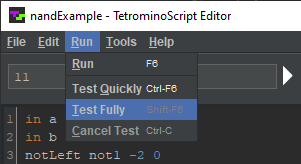
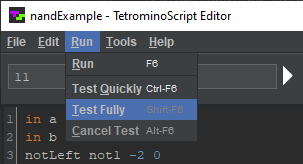
tse

diff --git a/web/index.html b/web/index.html
@@ -4215,7 +4215,7 @@ N = 16 * tetrominoType + 4 * tetrominoRotation + blockIndex;  // offset within p
 
 <p><img id="tse-test-fully.png" class="centered" src="tse-test-fully.png" /></p>
 
-<p>That causes TSE to compare the NAND gate's output with the value from JavaScript snippet for all possible inputs. They match:</p>
+<p>That causes TSE to compare the <span class="nowrap">NAND gate's</span> output with the value from JavaScript snippet for all possible inputs. They match:</p>
 
 <p><img id="tse-test-passed.png" class="centered" src="tse-test-passed.png" /></p>
 
@@ -4235,7 +4235,7 @@ N = 16 * tetrominoType + 4 * tetrominoRotation + blockIndex;  // offset within p
 
 <p>The alternative, <span class="menu">Run > Test Quickly</span> or <span class="keys">Ctrl-F6</span>, compares the circuit’s output with the JavaScript for a randomly selected subset of the possible input values. It covers only 10% of the testing space, enabling it to finish 10&times; faster.</p>
 
-<p>To terminate a long-running test, select <span class="menu">Run > Cancel Test</span></p>
+<p>To terminate a long-running test, select <span class="menu">Run > Cancel Test</span> or press <span class="keys">Alt-F6</span>.</p>
 
 <p>TSE recursively renders a circuit to a specified cutoff depth. At the cutoff, it assigns output nodes by evaluating JavaScript snippets. Meaning, not only does it display less detail, it simulates less detail. Consequentially, the lower the depth, the faster the render.</p>
 
@@ -4355,16 +4355,18 @@ N = 16 * tetrominoType + 4 * tetrominoRotation + blockIndex;  // offset within p
 
 <h3 id="tse-other-features">Other Features</h3>
 
-<p>TSE generated the <a href="https://en.wikipedia.org/wiki/SVG" target="_blank">SVG</a> diagrams in this text. To access the <span class="nowrap">Export SVG</span> dialog shown below, select <span class="menu">File > Export SVG...</span></p>
+<p>The <span class="nowrap">Export SVG</span> dialog, shown below, created the <a href="https://en.wikipedia.org/wiki/SVG" target="_blank">SVG</a> diagrams for this text. Select <span class="menu">File > Export SVG...</span> to open it.</span></p>
 
 <p><img id="tse-export-svg.png" class="centered" src="tse-export-svg.png" /></p>
+
+<p>Here are descriptions of its elements:</p>
 
 <ul>
   <li><span class="menu">Output</span>
     <ul>
       <li><span class="menu">Stdout</span> - When checked, TSE exports to the <a href="https://en.wikipedia.org/wiki/Standard_streams#Standard_output_(stdout)" target="_blank">standard output stream</a> instead of a file.</li>
-      <li><span class="menu">File</span> - TSE exports to this filename when the <span class="menu">stdout</span> checkbox is unchecked.</li>
-      <li><span class="menu">Browse...</span> - Opens a file chooser to enable the user to select the target filename.</li>
+      <li><span class="menu">File</span> - When the <span class="menu">stdout</span> checkbox is unchecked, TSE exports to a file with this name.</li>
+      <li><span class="menu">Browse...</span> - Opens a file chooser for the export filename.</li>
       <li><span class="menu">Default</span> - Resets the filename to the default value.</li>
     </ul>
   </li>
@@ -4378,14 +4380,14 @@ N = 16 * tetrominoType + 4 * tetrominoRotation + blockIndex;  // offset within p
     <ul>
       <li><span class="menu">Absolute width</span> - When checked, TSE does not scale the SVG.</li>
       <li><span class="menu">Display width</span> - When <span class="menu">Absolute width</span> is unchecked, TSE scales the SVG to this width.</li>
-      <li><span class="menu">Cell size</span> - The unscaled grid cell size.</li>
-      <li><span class="menu">Depth</span> - The recursive rendering depth.</li>
+      <li><span class="menu">Cell size</span> - Unscaled grid cell size.</li>
+      <li><span class="menu">Depth</span> - Recursive rendering depth.</li>
       <li><span class="menu">Margin</span> - Amount of pixel padding on all sides of the SVG.</li>
       <li><span class="menu">Tetrominoes</span> - Hides/shows the tetrominoes.</li>
       <li><span class="menu">Structures</span> - Hides/shows the dark rectangles that represent components.</li>
       <li><span class="menu">Input nodes</span> - Hides/shows the input nodes.</li>
       <li><span class="menu">Output nodes</span> - Hides/shows the output nodes.</li>
-      <li><span class="menu">Node values</span> - Hides/shows the bits that indicate node states.</li>
+      <li><span class="menu">Node values</span> - Hides/shows the zeros and ones that indicate node states.</li>
     </ul>
   </li>
   <li><span class="menu">Grid</span>

diff --git a/src/main/java/tetrominocomputer/tse/ui/CircuitsEditorPanel.java b/src/main/java/tetrominocomputer/tse/ui/CircuitsEditorPanel.java
@@ -70,67 +70,12 @@ public class CircuitsEditorPanel extends javax.swing.JPanel {
         
         javaScriptUndoManager = new UndoManager();
         javaScriptTextArea.getDocument().addUndoableEditListener(e -> javaScriptUndoManager.addEdit(e.getEdit()));
-        createUndoRedoUnIndentHandlers(javaScriptScrollPane, javaScriptTextArea, javaScriptDocumentFilter);
+        addKeyHandlers(javaScriptScrollPane, javaScriptTextArea, javaScriptDocumentFilter);
         
         tetrominoScriptUndoManager = ((CustomTextPane)tetrominoScriptTextPane).createUndoManager();
         tetrominoScriptTextPane.getDocument().addUndoableEditListener(
                 e -> tetrominoScriptUndoManager.addEdit(e.getEdit()));
-        createUndoRedoUnIndentHandlers(tetrominoScriptScrollPane, tetrominoScriptTextPane, 
-                tetrominoScriptDocumentFilter);
-        tetrominoScriptTextPane.getInputMap(JComponent.WHEN_IN_FOCUSED_WINDOW)
-                .put(COMMENT_KEYSTROKE, "commentKeyStroke");
-        tetrominoScriptTextPane.getActionMap().put("commentKeyStroke", new AbstractAction() {
-            @Override
-            public void actionPerformed(final ActionEvent evt) {
-                final StyledDocument doc = tetrominoScriptTextPane.getStyledDocument();
-                final Element root = doc.getDefaultRootElement();
-                final int startIndex = root.getElementIndex(tetrominoScriptTextPane.getSelectionStart());
-                final int endIndex = root.getElementIndex(tetrominoScriptTextPane.getSelectionEnd());
-                final int lineCount = endIndex - startIndex + 1;
-                int comments = 0;
-                for (int i = startIndex; i <= endIndex; ++i) {
-                    final Element element = root.getElement(i);
-                    final int startOffset = element.getStartOffset();
-                    final int endOffset = element.getEndOffset();
-                    try {
-                        final String line = doc.getText(startOffset, endOffset - startOffset);
-                        if (line.startsWith("#")) {
-                            ++comments;
-                        }
-                    } catch (final BadLocationException e) {
-                    }
-                }
-                final boolean toggle = lineCount == 1;
-                final boolean comment = comments <= (lineCount >> 1);
-                for (int i = startIndex; i <= endIndex; ++i) {
-                    final Element element = root.getElement(i);
-                    final int startOffset = element.getStartOffset();
-                    final int endOffset = element.getEndOffset();
-                    try {
-                        final String line = doc.getText(startOffset, endOffset - startOffset);
-                        if (toggle) {
-                            if (line.startsWith("#")) {
-                                doc.remove(startOffset, 1);
-                            } else {                                
-                                doc.insertString(startOffset, "#", null);
-                            }
-                            TetrominoScriptDocumentFilter.applySyntaxHighlighting(doc, element);
-                        } else if (comment) {
-                            if (!line.startsWith("#")) {
-                                doc.insertString(startOffset, "#", null);
-                                TetrominoScriptDocumentFilter.applySyntaxHighlighting(doc, element);
-                            }                            
-                        } else {
-                            if (line.startsWith("#")) {                                
-                                doc.remove(startOffset, 1);
-                                TetrominoScriptDocumentFilter.applySyntaxHighlighting(doc, element);
-                            }                            
-                        }                        
-                    } catch (final BadLocationException e) {
-                    }
-                }
-            }
-        });
+        addKeyHandlers(tetrominoScriptScrollPane, tetrominoScriptTextPane, tetrominoScriptDocumentFilter);
         
         Ui.setMonospaced(tetrominoScriptTextPane);
         Ui.setMonospaced(javaScriptScrollPane);
@@ -148,7 +93,7 @@ public class CircuitsEditorPanel extends javax.swing.JPanel {
         return javaScriptDocumentFilter.getChangeCount();
     }    
     
-    private void createUndoRedoUnIndentHandlers(final JScrollPane scrollPane, final JTextComponent textComponent, 
+    private void addKeyHandlers(final JScrollPane scrollPane, final JTextComponent textComponent, 
             final DocumentFilter documentFilter) {
         
         scrollPane.setRowHeaderView(new LineNumberingTextArea(textComponent));                
@@ -197,6 +142,14 @@ public class CircuitsEditorPanel extends javax.swing.JPanel {
                     } catch (final BadLocationException e) {
                     }
                 }                
+            }
+        });
+        
+        textComponent.getInputMap(JComponent.WHEN_IN_FOCUSED_WINDOW).put(COMMENT_KEYSTROKE, "commentKeyStroke");
+        textComponent.getActionMap().put("commentKeyStroke", new AbstractAction() {
+            @Override
+            public void actionPerformed(final ActionEvent evt) {
+                toggleComment();
             }
         });
     }
@@ -464,6 +417,68 @@ public class CircuitsEditorPanel extends javax.swing.JPanel {
         } catch (final BadLocationException e) {
         }
     }
+    
+    public void toggleComment() {
+        if (tetrominoScriptHasFocus) {
+            toggleComment(tetrominoScriptTextPane, "#");
+        } else if (javaScriptHasFocus) {
+            toggleComment(javaScriptTextArea, "//");
+        }
+    }
+    
+    private void toggleComment(final JTextComponent textComponent, final String commentDelimiter) {
+        final Document doc = textComponent.getDocument();
+        final Element root = doc.getDefaultRootElement();
+        final int startIndex = root.getElementIndex(textComponent.getSelectionStart());
+        final int endIndex = root.getElementIndex(textComponent.getSelectionEnd());
+        final int lineCount = endIndex - startIndex + 1;
+        int comments = 0;
+        for (int i = startIndex; i <= endIndex; ++i) {
+            final Element element = root.getElement(i);
+            final int startOffset = element.getStartOffset();
+            final int endOffset = element.getEndOffset();
+            try {
+                final String line = doc.getText(startOffset, endOffset - startOffset);
+                if (line.startsWith(commentDelimiter)) {
+                    ++comments;
+                }
+            } catch (final BadLocationException e) {
+            }
+        }
+        final boolean toggle = lineCount == 1;
+        final boolean comment = comments <= (lineCount >> 1);
+        for (int i = startIndex; i <= endIndex; ++i) {
+            final Element element = root.getElement(i);
+            final int startOffset = element.getStartOffset();
+            final int endOffset = element.getEndOffset();
+            try {
+                final String line = doc.getText(startOffset, endOffset - startOffset);
+                if (toggle) {
+                    if (line.startsWith(commentDelimiter)) {
+                        doc.remove(startOffset, commentDelimiter.length());
+                    } else {                                
+                        doc.insertString(startOffset, commentDelimiter, null);
+                    }
+                    if (tetrominoScriptHasFocus) {
+                        TetrominoScriptDocumentFilter.applySyntaxHighlighting((StyledDocument) doc, element);
+                    }
+                } else if (comment) {
+                    if (!line.startsWith(commentDelimiter)) {
+                        doc.insertString(startOffset, commentDelimiter, null);
+                        if (tetrominoScriptHasFocus) {
+                            TetrominoScriptDocumentFilter.applySyntaxHighlighting((StyledDocument) doc, element);
+                        }
+                    }                            
+                } else if (line.startsWith(commentDelimiter)) {                                
+                    doc.remove(startOffset, commentDelimiter.length());
+                    if (tetrominoScriptHasFocus) {
+                        TetrominoScriptDocumentFilter.applySyntaxHighlighting((StyledDocument) doc, element);
+                    }
+                }                        
+            } catch (final BadLocationException e) {
+            }
+        }
+    }    
     
     public void undo() {
         try {

diff --git a/src/main/java/tetrominocomputer/tse/ui/CircuitsFrame.java b/src/main/java/tetrominocomputer/tse/ui/CircuitsFrame.java
@@ -279,6 +279,8 @@ public class CircuitsFrame extends javax.swing.JFrame {
         findPreviousMenuItem = new javax.swing.JMenuItem();
         replaceMenuItem = new javax.swing.JMenuItem();
         goToMenuItem = new javax.swing.JMenuItem();
+        jSeparator14 = new javax.swing.JPopupMenu.Separator();
+        toggleCommentMenuItem = new javax.swing.JMenuItem();
         runMenu = new javax.swing.JMenu();
         runMenuItem = new javax.swing.JMenuItem();
         jSeparator13 = new javax.swing.JPopupMenu.Separator();
@@ -638,7 +640,7 @@ public class CircuitsFrame extends javax.swing.JFrame {
 
         coordinatesLabel.setFont(new java.awt.Font("Monospaced", 0, 13)); // NOI18N
         coordinatesLabel.setText("               ");
-        coordinatesLabel.setToolTipText("Playfield Coordinates");
+        coordinatesLabel.setToolTipText("");
         coordinatesLabel.setMaximumSize(null);
         coordinatesLabel.setMinimumSize(null);
 
@@ -745,7 +747,6 @@ public class CircuitsFrame extends javax.swing.JFrame {
         );
 
         coordinatesLabel.getAccessibleContext().setAccessibleName("");
-        coordinatesLabel.getAccessibleContext().setAccessibleDescription("");
 
         fileMenu.setMnemonic('f');
         fileMenu.setText("File");
@@ -920,6 +921,17 @@ public class CircuitsFrame extends javax.swing.JFrame {
             }
         });
         editMenu.add(goToMenuItem);
+        editMenu.add(jSeparator14);
+
+        toggleCommentMenuItem.setAccelerator(javax.swing.KeyStroke.getKeyStroke(java.awt.event.KeyEvent.VK_SLASH, java.awt.event.InputEvent.CTRL_MASK));
+        toggleCommentMenuItem.setMnemonic('c');
+        toggleCommentMenuItem.setText("Toggle Comment");
+        toggleCommentMenuItem.addActionListener(new java.awt.event.ActionListener() {
+            public void actionPerformed(java.awt.event.ActionEvent evt) {
+                toggleCommentMenuItemActionPerformed(evt);
+            }
+        });
+        editMenu.add(toggleCommentMenuItem);
 
         menuBar.add(editMenu);
 
@@ -967,7 +979,7 @@ public class CircuitsFrame extends javax.swing.JFrame {
         });
         runMenu.add(testFullyMenuItem);
 
-        cancelTestMenuItem.setAccelerator(javax.swing.KeyStroke.getKeyStroke(java.awt.event.KeyEvent.VK_C, java.awt.event.InputEvent.CTRL_MASK));
+        cancelTestMenuItem.setAccelerator(javax.swing.KeyStroke.getKeyStroke(java.awt.event.KeyEvent.VK_F6, java.awt.event.InputEvent.ALT_MASK));
         cancelTestMenuItem.setMnemonic('c');
         cancelTestMenuItem.setText("Cancel Test");
         cancelTestMenuItem.addActionListener(new java.awt.event.ActionListener() {
@@ -1634,6 +1646,10 @@ public class CircuitsFrame extends javax.swing.JFrame {
         cancelTestMenuItem.setEnabled(taskCount.get() > 0 && !cancelled.get());
     }//GEN-LAST:event_runMenuMenuSelected
 
+    private void toggleCommentMenuItemActionPerformed(java.awt.event.ActionEvent evt) {//GEN-FIRST:event_toggleCommentMenuItemActionPerformed
+        circuitsEditorPanel.toggleComment();
+    }//GEN-LAST:event_toggleCommentMenuItemActionPerformed
+
     public void goToLine(final int lineNumber) {
         closeGoToDialog();
         circuitsEditorPanel.goToLine(lineNumber);
@@ -1705,6 +1721,7 @@ public class CircuitsFrame extends javax.swing.JFrame {
     private javax.swing.JPopupMenu.Separator jSeparator11;
     private javax.swing.JPopupMenu.Separator jSeparator12;
     private javax.swing.JPopupMenu.Separator jSeparator13;
+    private javax.swing.JPopupMenu.Separator jSeparator14;
     private javax.swing.JPopupMenu.Separator jSeparator2;
     private javax.swing.JPopupMenu.Separator jSeparator3;
     private javax.swing.JSeparator jSeparator4;
@@ -1747,6 +1764,7 @@ public class CircuitsFrame extends javax.swing.JFrame {
     private javax.swing.JMenuItem testQuicklyMenuItem;
     private javax.swing.JTextField testTextField;
     private javax.swing.JButton tlButton;
+    private javax.swing.JMenuItem toggleCommentMenuItem;
     private javax.swing.JToolBar toolBar;
     private javax.swing.JMenu toolsMenu;
     private javax.swing.JButton trButton;
